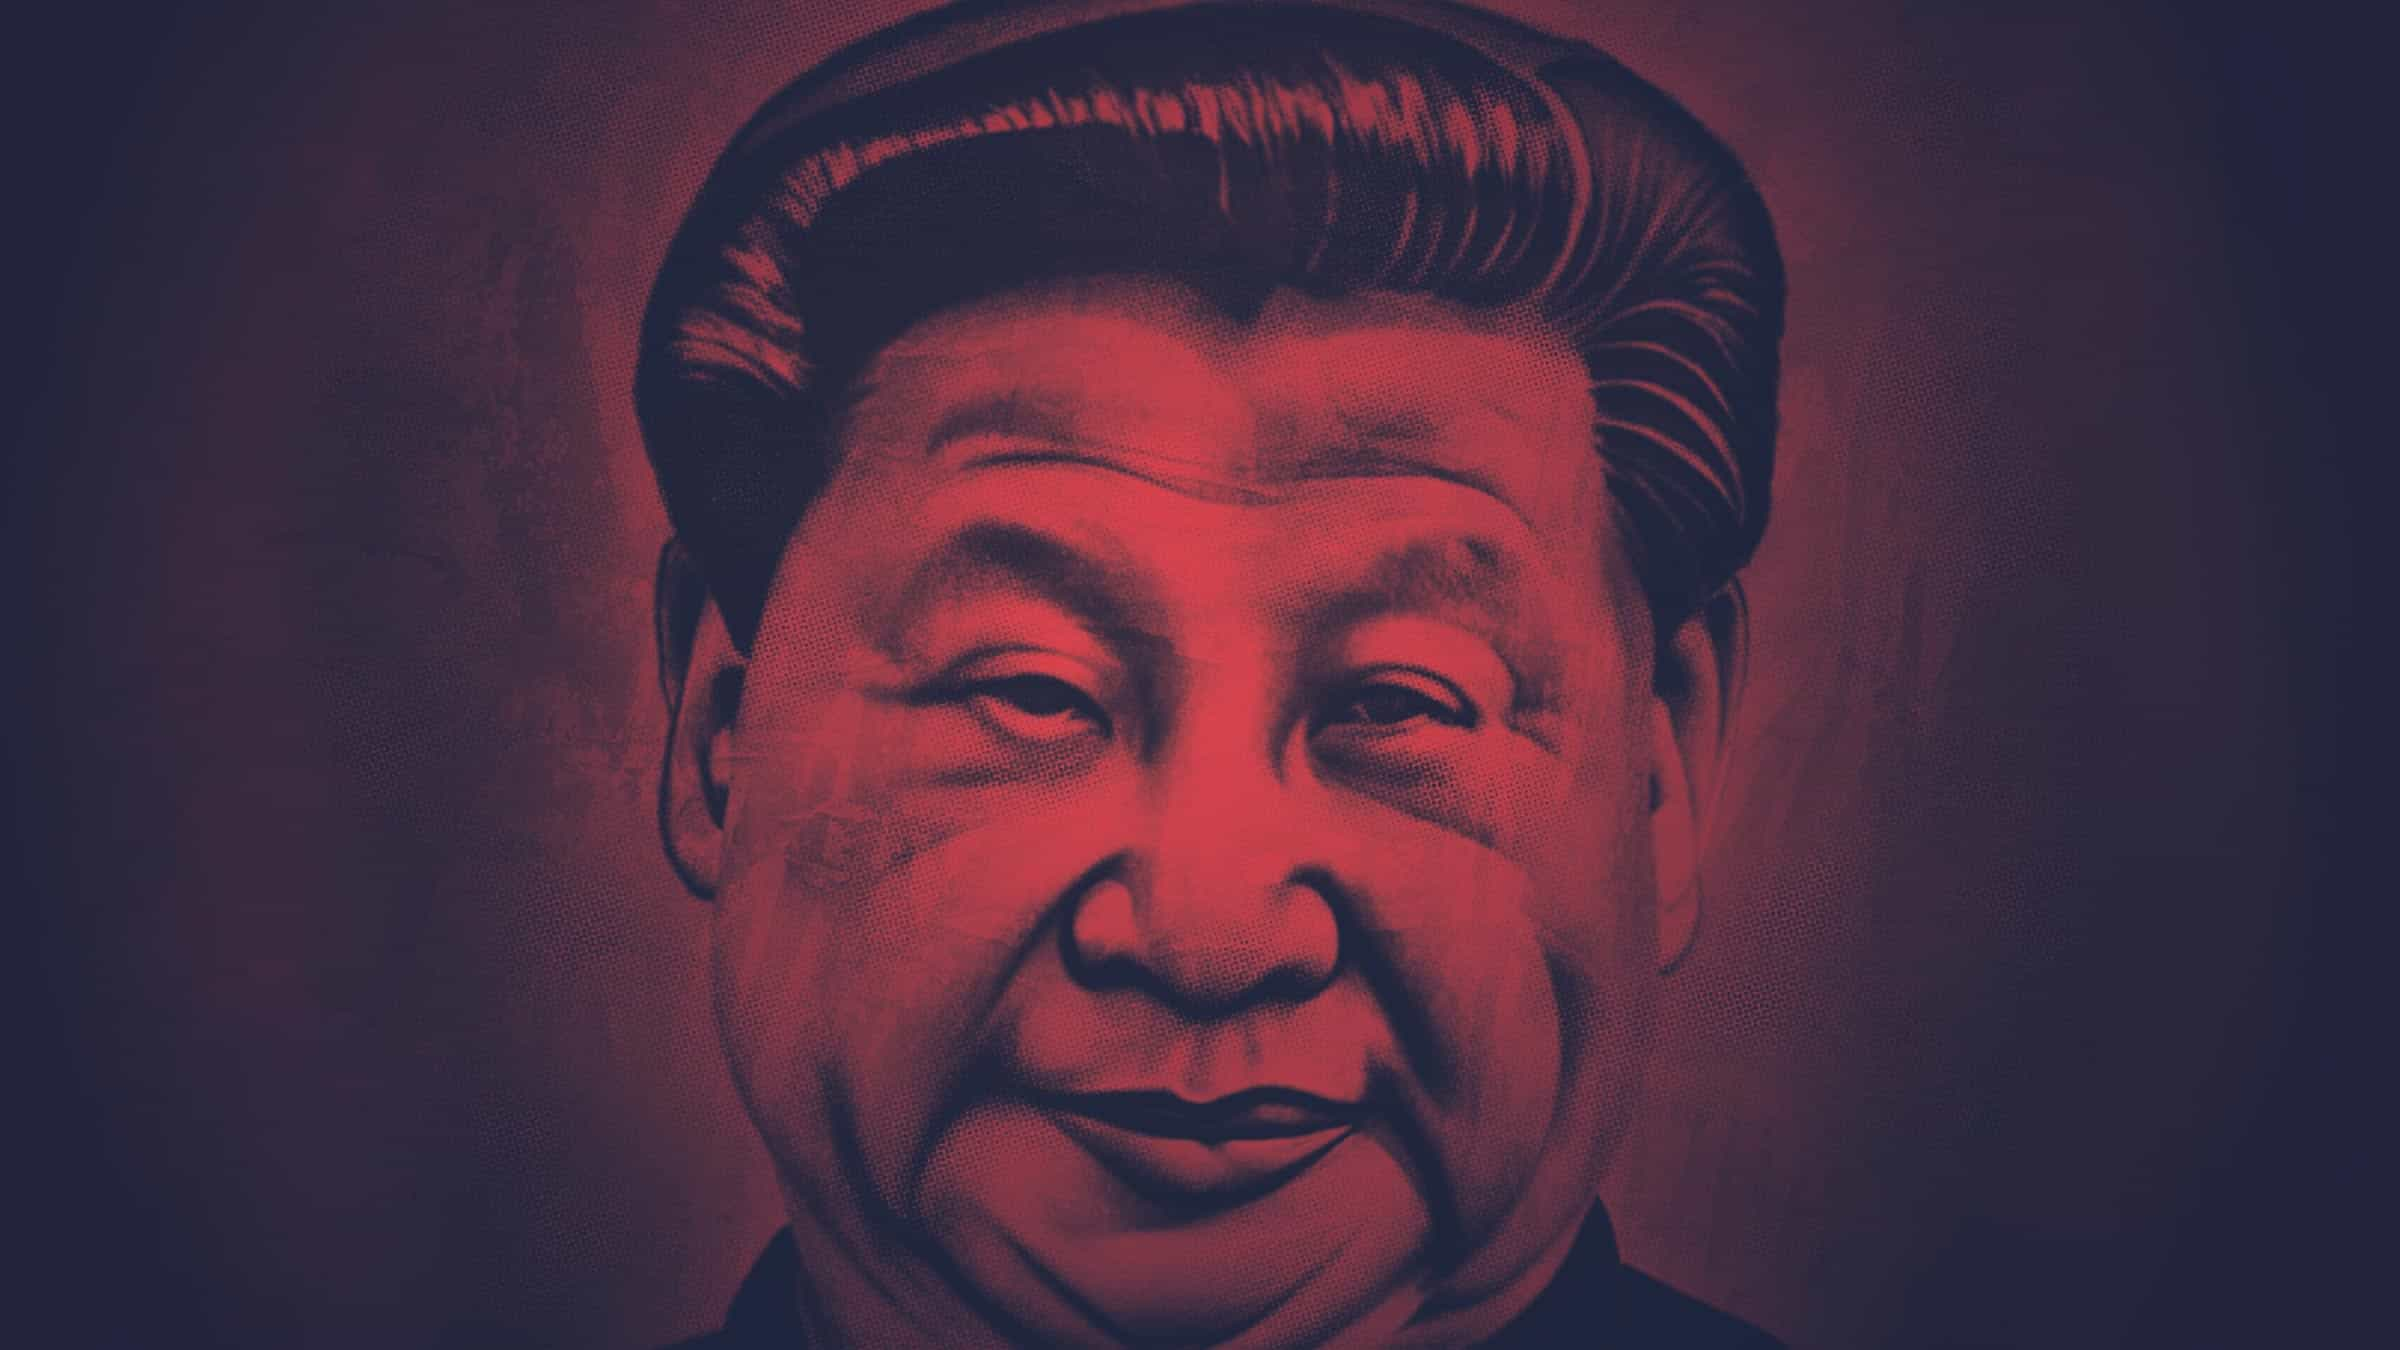
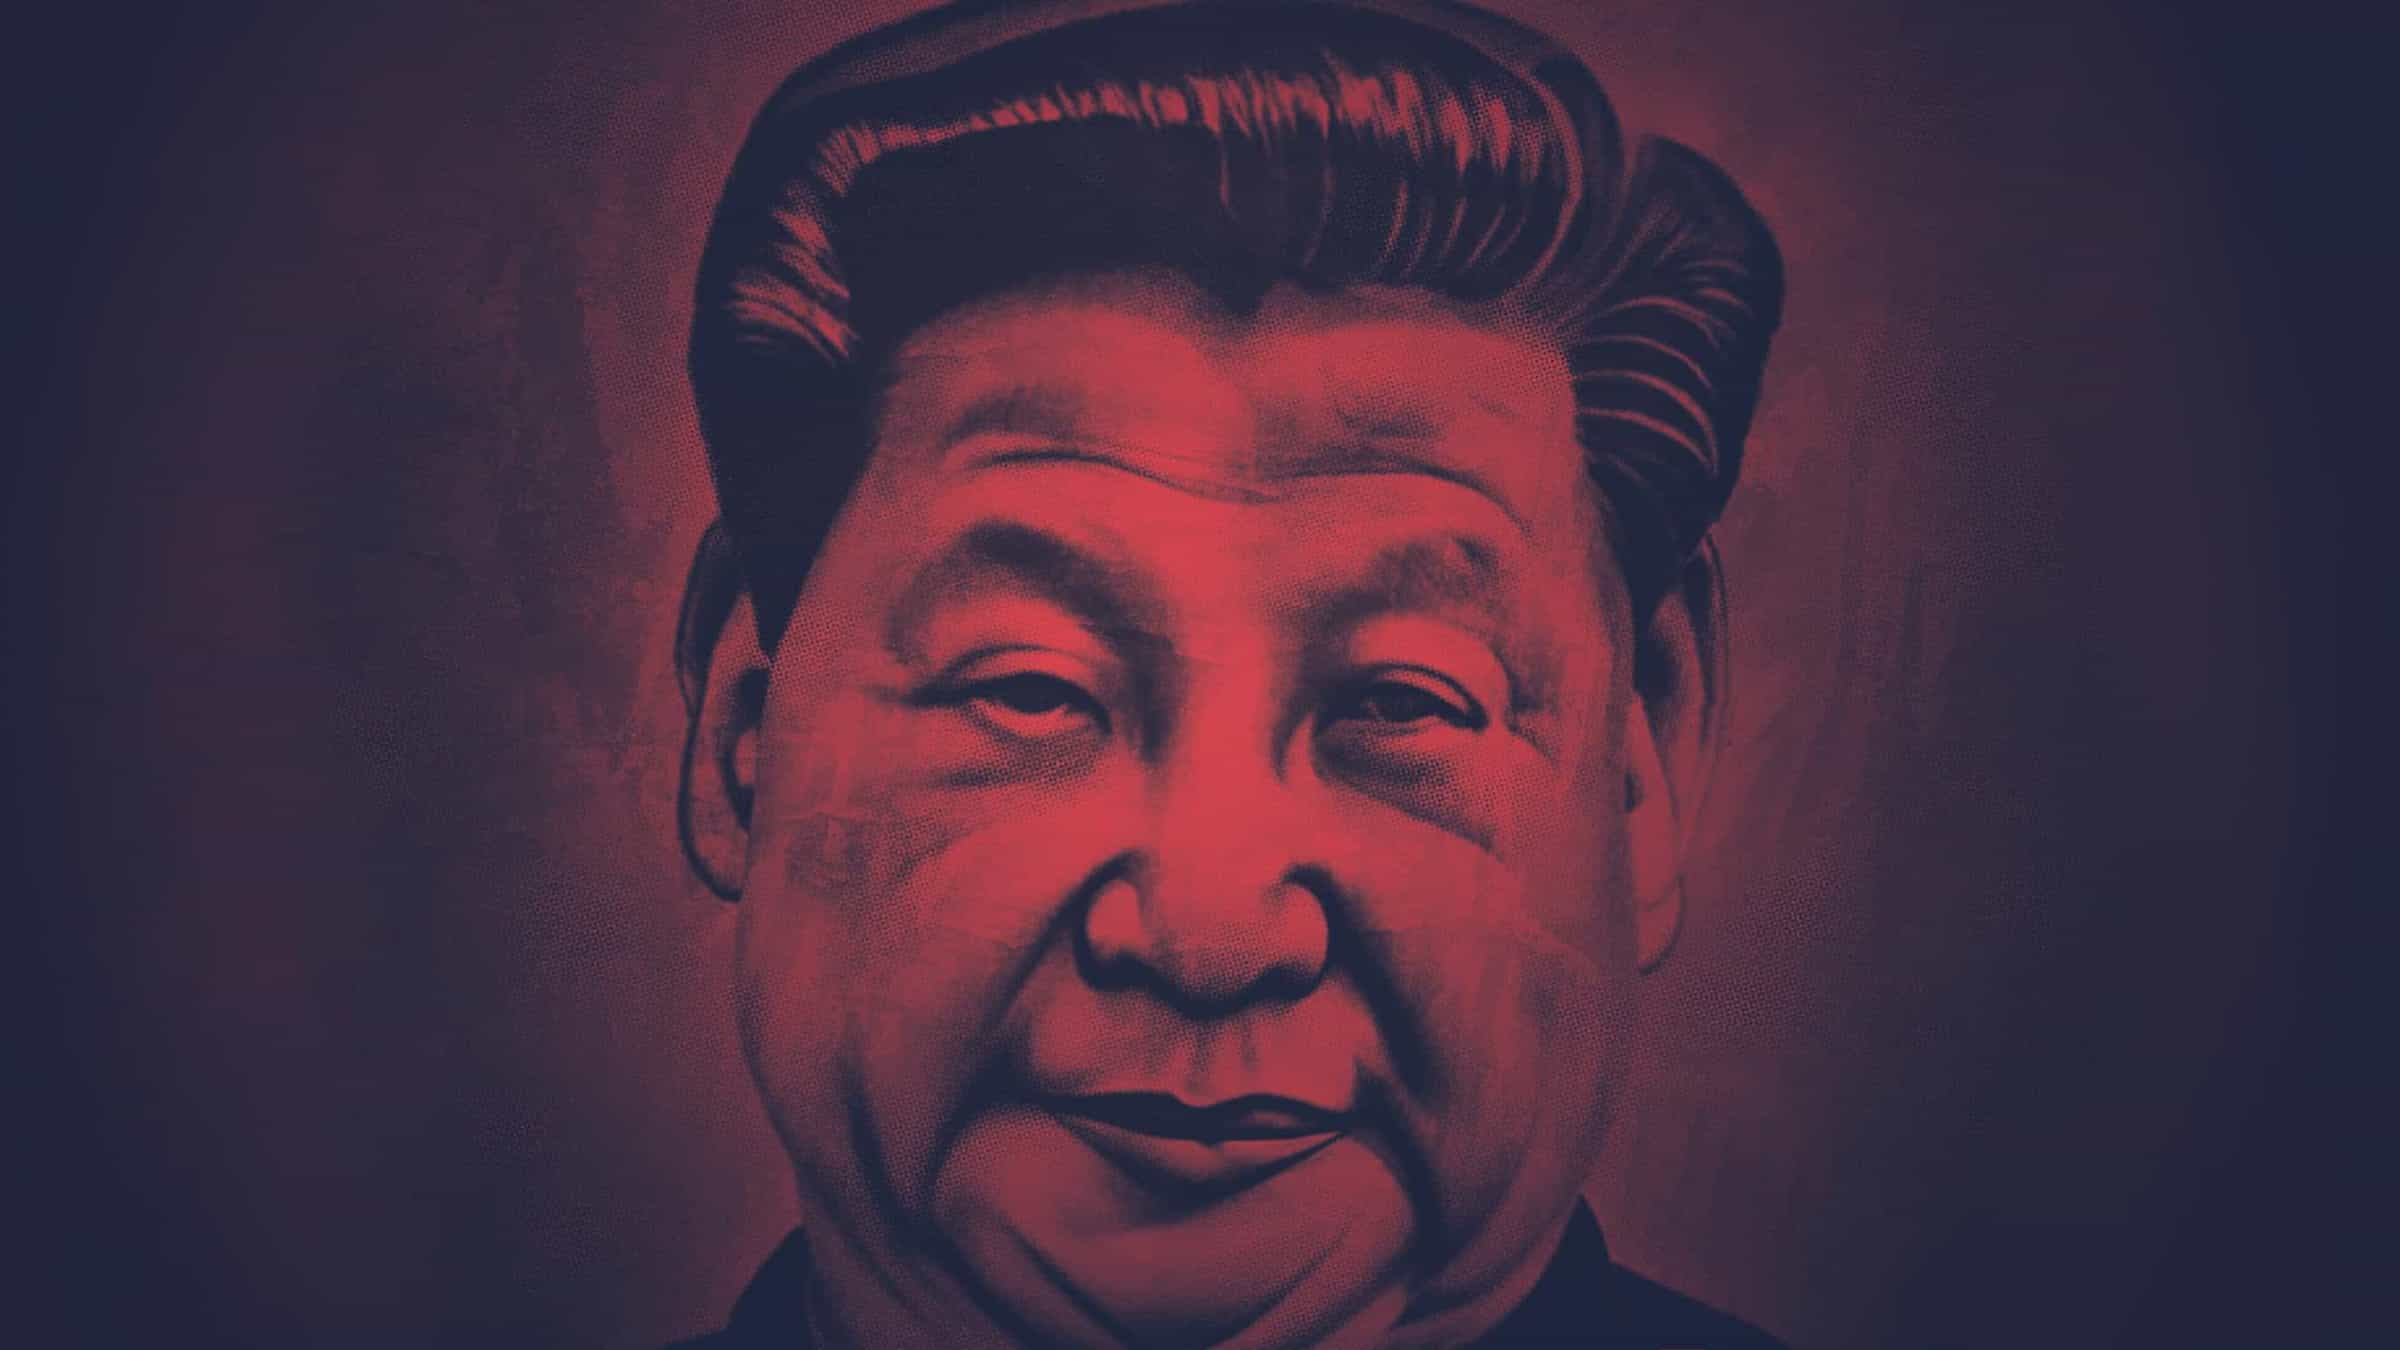
Revert intro image, add note

diff --git a/app/static/features/the-xi-jinping-era/README.md b/app/static/features/the-xi-jinping-era/README.md
@@ -48,3 +48,6 @@ https://share.s-ings.com/lowy/the-xi-jinping-era-assets.zip
 
 Username: lowy
 Password: 31bligh
+
+Note that the PSD for the first slide doesn't exactily match the image used.
+I made edits to make this image better resemble Xi, but those edits were lost.
